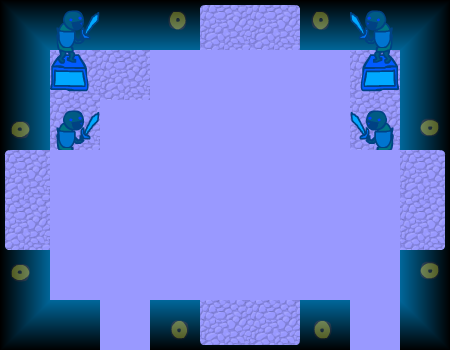
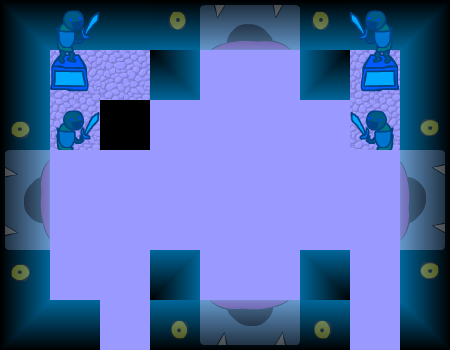
DungeonMaze
- Had to make rooms 16 TPS (restriction on maze generation)
- Handy new function to turn some tile in a room into a more beautiful
tile with appropriate borders.
- Mazes are kinda obnoxious but we need something fun to fill the rooms
soon I think.

diff --git a/Mapper/terrain/rooms.py b/Mapper/terrain/rooms.py
@@ -147,10 +147,28 @@ class Dungeon(Room):
         entities = set([BlockAI((300, 300))])
         width = room.w * Room.TPS
         height = room.h * Room.TPS
-        toR = [[(0, 0)] + [(2, 0)] * (width - 2) + [(8, 0)]] + [
-            [(0, 1)] + [(2, 1)] * (width - 2) + [(8, 1)]
-            for _ in xrange(height - 2)] + [
-            [(0, 6), ] + [(1, 6)] * (width - 2) + [(8, 6)]]
+
+        wall_lookup = {Room.ALL & ~Room.DOWNRIGHT: (0, 0),
+                       Room.ALL & ~Room.DOWNLEFT: (8, 0),
+                       Room.ALL & ~Room.UPRIGHT: (0, 6),
+                       Room.ALL & ~Room.UPLEFT: (8, 6),
+                       Room.ALL & ~(Room.DOWNRIGHT | Room.RIGHT | Room.UPRIGHT): (0, 1),
+                       Room.ALL & ~(Room.DOWNRIGHT | Room.DOWN | Room.DOWNLEFT): (2, 0),
+                       Room.ALL & ~(Room.UPRIGHT | Room.UP | Room.UPLEFT): (1, 6),
+                       Room.ALL & ~(Room.DOWNLEFT | Room.LEFT | Room.UPLEFT): (8, 1),
+                       Room.ALL & ~(Room.DOWNRIGHT | Room.RIGHT): (0, 1),
+                       Room.ALL & ~(Room.RIGHT | Room.UPRIGHT): (0, 1),
+                       Room.ALL & ~(Room.DOWN | Room.DOWNLEFT): (2, 0),
+                       Room.ALL & ~(Room.DOWN | Room.DOWNRIGHT): (2, 0),
+                       Room.ALL & ~(Room.UPRIGHT | Room.UP): (1, 6),
+                       Room.ALL & ~(Room.UP | Room.UPLEFT): (1, 6),
+                       Room.ALL & ~(Room.DOWNLEFT | Room.LEFT): (8, 1),
+                       Room.ALL & ~(Room.LEFT | Room.UPLEFT): (8, 1)}
+
+        toR = ([[1] * width] +
+            [[1] + [(2, 1)] * (width - 2) + [1] for _ in xrange(height - 2)] +
+            [[1] * width])
+        toR = self.convert_walls(toR, 1, wall_lookup)
 
         toR[1][1] = (1, 1)
         toR[0][1] = (1, 0)
@@ -194,6 +212,156 @@ class Dungeon(Room):
                 toR[y + 2][0] = (0, 5)
                 entities.add(DoorAI(map(lambda q: q * 50, (-1, y)), 2))
 
+        return toR, entities
+
+
+class DungeonMaze(Room):
+    TILESET = pygame.image.load("imgs/dungeon_blu.png")
+    def __init__(self, room):
+        self.impassible = tuple(((x, y) for x in xrange(9) for y in xrange(7)
+            if (x, y) not in ((2, 1), )))
+        map_data, entities = self.generate_room(room)
+        assert len(map_data) == room.h * Room.TPS,\
+            str(len(map_data)) + " vs " + str(room.h * Room.TPS)
+        assert len(map_data[0]) == room.w * Room.TPS,\
+            str(len(map_data[0])) + " vs " + str(room.w * Room.TPS)
+        super(DungeonMaze, self).__init__(map_data, self.impassible,
+            room, entities)
+
+    def generate_room(self, room):
+        entities = set()
+        width = room.w * Room.TPS
+        height = room.h * Room.TPS
+
+        wall_lookup = {Room.ALL & ~Room.DOWNRIGHT: (0, 0),
+                       Room.ALL & ~Room.DOWNLEFT: (8, 0),
+                       Room.ALL & ~Room.UPRIGHT: (0, 6),
+                       Room.ALL & ~Room.UPLEFT: (8, 6),
+                       Room.ALL & ~(Room.DOWNRIGHT | Room.RIGHT | Room.UPRIGHT): (0, 1),
+                       Room.ALL & ~(Room.DOWNRIGHT | Room.DOWN | Room.DOWNLEFT): (2, 0),
+                       Room.ALL & ~(Room.UPRIGHT | Room.UP | Room.UPLEFT): (1, 6),
+                       Room.ALL & ~(Room.DOWNLEFT | Room.LEFT | Room.UPLEFT): (8, 1),
+                       Room.ALL & ~(Room.DOWNRIGHT | Room.RIGHT): (0, 1),
+                       Room.ALL & ~(Room.RIGHT | Room.UPRIGHT): (0, 1),
+                       Room.ALL & ~(Room.DOWN | Room.DOWNLEFT): (2, 0),
+                       Room.ALL & ~(Room.DOWN | Room.DOWNRIGHT): (2, 0),
+                       Room.ALL & ~(Room.UPRIGHT | Room.UP): (1, 6),
+                       Room.ALL & ~(Room.UP | Room.UPLEFT): (1, 6),
+                       Room.ALL & ~(Room.DOWNLEFT | Room.LEFT): (8, 1),
+                       Room.ALL & ~(Room.LEFT | Room.UPLEFT): (8, 1),
+                       Room.DOWN | Room.RIGHT | Room.DOWNRIGHT: (6, 5),
+                       Room.DOWN | Room.LEFT | Room.DOWNLEFT: (3, 5),
+                       Room.UP | Room.RIGHT | Room.UPRIGHT: (6, 1),
+                       Room.UP | Room.LEFT | Room.UPLEFT: (3, 1),
+                       Room.ALL: (2, 2)}
+
+        # toR = ([[1] * width] +
+        #     [[1] + [(2, 1)] * (width - 2) + [1] for _ in xrange(height - 2)] +
+        #     [[1] * width])
+
+        w = width // 2 + 1  # +1 because we remove the edges
+        h = height // 2 + 1
+        #print w, h
+        board = ([[1] * w] +
+            [[1] + [2] * (w - 2) + [1] for _ in xrange(h - 2)] +
+            [[1] * w])
+        def dfs((x, y)):
+            board[y][x] = 0
+            next = [(1, 0), (0, 1), (-1, 0), (0, -1)]
+            random.shuffle(next)
+            for ex, ey in next:
+                if (board[y + ey][x + ex] == 2 and
+                        board[y + ey * 2][x + ex * 2] == 2):
+                    board[y + ey][x + ex] = 0
+                    dfs((x + ex * 2, y + ey * 2))
+
+        dfs((1, 1))
+
+        toR = [[1] * width]
+        for i, row in enumerate(board[1:-1]):
+            toS = [1]
+            for j, c in enumerate(row[1:-1]):
+                if c == 0:
+                    toS.append((2, 1))
+                    toS.append((2, 1))
+                    if j == w // 2 and width % 2:
+                        toS.append((2, 1))
+                else:
+                    toS.append(1)
+                    toS.append(1)
+                    if j == w // 2 and width % 2:
+                        toS.append(1)
+
+            toS.append(1)
+            toR.append(toS[:])
+            toR.append(toS[:])
+            if i == h // 2 and height % 2:
+                toR.append(toS[:])
+        toR.append([1] * width)
+
+        for x, y, dr in room.paths_iter():
+            if (room.x, room.y) == (0, 0):
+                print x, y, dr
+            x = int((x + .5) * Room.TPS)
+            y = int((y + .5) * Room.TPS)
+            if dr == 1:
+                toR[0][x - 1] = (3, 0)
+                toR[0][x] = (2, 1)
+                toR[0][x + 1] = (2, 1)
+                toR[0][x + 2] = (6, 0)
+                toR[1][x] = (2, 1)
+                toR[1][x + 1] = (2, 1)
+                toR[2][x] = (2, 1)
+                toR[2][x + 1] = (2, 1)
+                toR[1][x - 1] = (2, 1)
+                toR[1][x + 2] = (2, 1)
+                toR[2][x - 1] = (2, 1)
+                toR[2][x + 2] = (2, 1)
+                entities.add(DoorAI(map(lambda q: q * 50, (x, -1)), 0))
+            elif dr == 2:
+                toR[y - 1][-1] = (8, 2)
+                toR[y][-1] = (2, 1)
+                toR[y + 1][-1] = (2, 1)
+                toR[y + 2][-1] = (8, 5)
+                toR[y][-2] = (2, 1)
+                toR[y][-3] = (2, 1)
+                toR[y + 1][-2] = (2, 1)
+                toR[y + 1][-3] = (2, 1)
+                toR[y - 1][-2] = (2, 1)
+                toR[y - 1][-3] = (2, 1)
+                toR[y + 2][-2] = (2, 1)
+                toR[y + 2][-3] = (2, 1)
+                entities.add(DoorAI(map(lambda q: q * 50, (width - 1, y)), 3))
+            elif dr == 4:
+                toR[-1][x - 1] = (3, 6)
+                toR[-1][x] = (2, 1)
+                toR[-1][x + 1] = (2, 1)
+                toR[-1][x + 2] = (6, 6)
+                toR[-2][x] = (2, 1)
+                toR[-3][x] = (2, 1)
+                toR[-2][x + 1] = (2, 1)
+                toR[-3][x + 1] = (2, 1)
+                toR[-2][x - 1] = (2, 1)
+                toR[-3][x - 1] = (2, 1)
+                toR[-2][x + 2] = (2, 1)
+                toR[-3][x + 2] = (2, 1)
+                entities.add(DoorAI(map(lambda q: q * 50, (x, height - 1)), 1))
+            elif dr == 8:
+                toR[y - 1][0] = (0, 2)
+                toR[y][0] = (2, 1)
+                toR[y + 1][0] = (2, 1)
+                toR[y + 2][0] = (0, 5)
+                toR[y][1] = (2, 1)
+                toR[y][2] = (2, 1)
+                toR[y + 1][1] = (2, 1)
+                toR[y + 1][2] = (2, 1)
+                toR[y - 1][1] = (2, 1)
+                toR[y - 1][2] = (2, 1)
+                toR[y + 2][1] = (2, 1)
+                toR[y + 2][2] = (2, 1)
+                entities.add(DoorAI(map(lambda q: q * 50, (-1, y)), 2))
+
+        toR = self.convert_walls(toR, 1, wall_lookup, self.impassible)
         return toR, entities
 
 

diff --git a/Mapper/terrain/__init__.py b/Mapper/terrain/__init__.py
@@ -59,7 +59,10 @@ class SpriteList(object):
 
 
 class Room(object):
-    TPS = 15  # Tiles per Square
+    TPS = 16  # Tiles per Square
+    UP, UPRIGHT, RIGHT, DOWNRIGHT, DOWN, DOWNLEFT, LEFT, UPLEFT, ALL = (
+        2 ** x for x in xrange(9))
+    ALL -= 1
 
     def __init__(self, map_data, impassible, roomds, entities=[]):
         self.map = [d[:] for d in map_data]
@@ -81,6 +84,23 @@ class Room(object):
 
     def __contains__(self, (x, y)):
         return (0 <= x - self.x < self.w) and (0 <= y - self.y < self.h)
+
+    def convert_walls(self, room, wall, wall_lookup, alsowall=[]):
+        alsowall = list(alsowall) + [wall]
+        def anonaway(e, (x, y)):
+            if e != wall:
+                return e
+            val = 0
+            for i, (ax, ay) in enumerate(((0, -1), (1, -1), (1, 0), (1, 1),
+                    (0, 1), (-1, 1), (-1, 0), (-1, -1))):
+                ax += x
+                ay += y
+                if (not (0 <= ay < len(room) and 0 <= ax < len(room[ay])) or
+                        room[ay][ax] in alsowall):
+                    val |= 2 ** i
+            return wall_lookup[val]  # wall_lookup.get(val, (1, 1))
+        return [[anonaway(e, (x, y)) for x, e in enumerate(row)]
+            for y, row in enumerate(room)]
 
     @staticmethod
     def resize(x):

diff --git a/Mapper/ui/overworld_ui.py b/Mapper/ui/overworld_ui.py
@@ -58,7 +58,7 @@ class GameplayUI(ui.UI):
                 return item
 
         if (x - 25) ** 2 + (y - 25) ** 2 < 625:
-            room_obj = Dungeon(room)
+            room_obj = DungeonMaze(room)
         else:
             room_obj = Ocean(room)
         self.terrain.append(room_obj)
